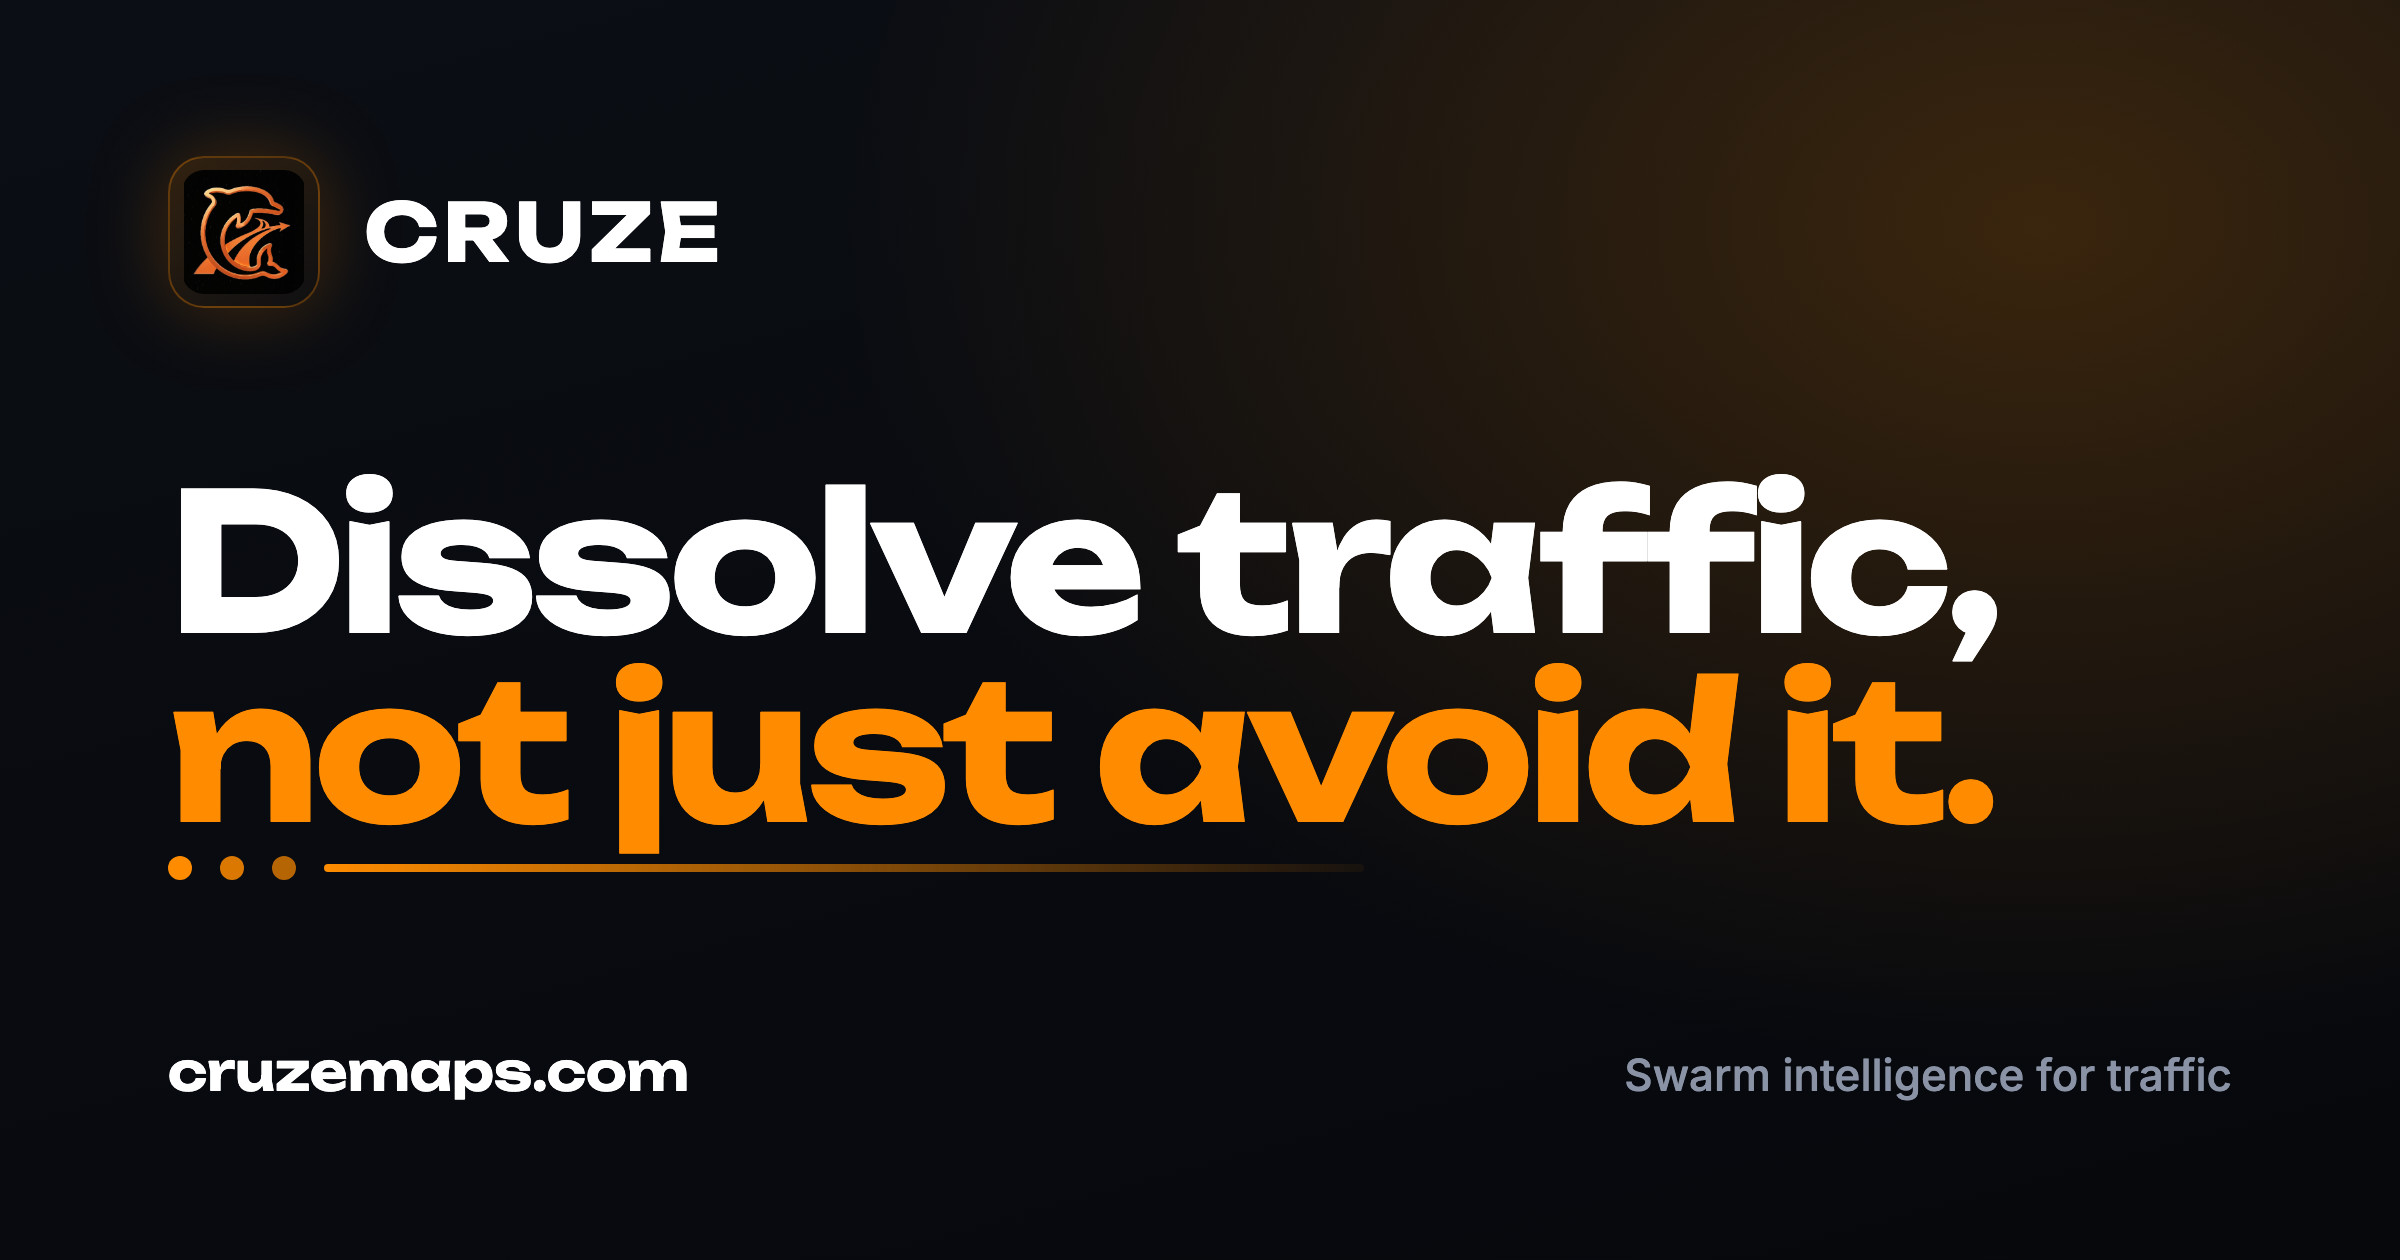
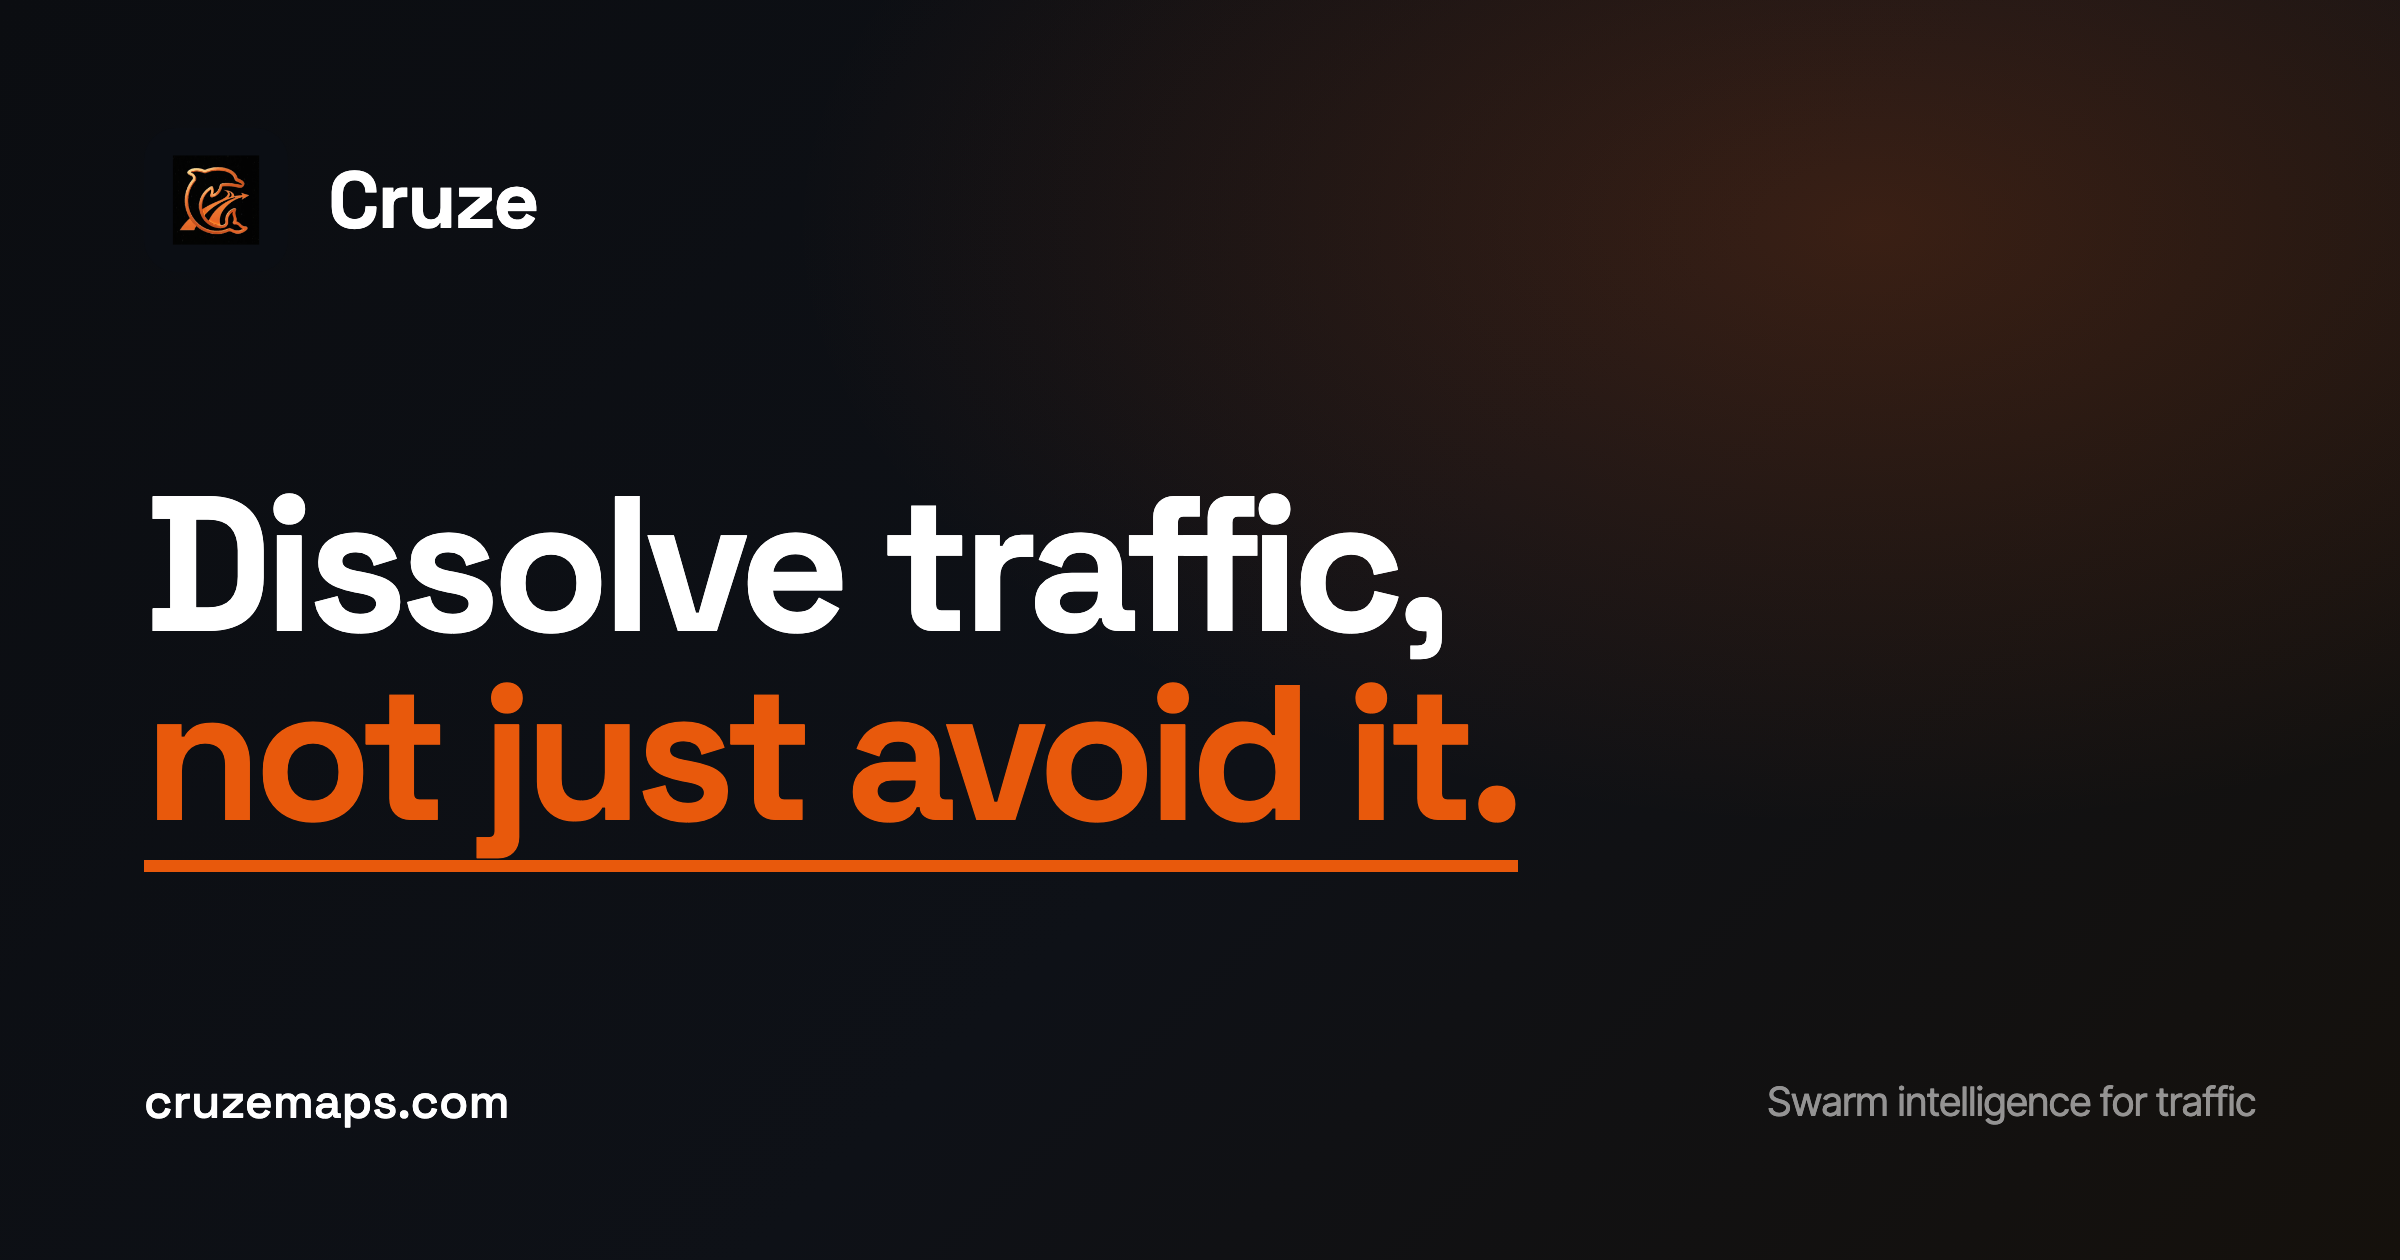
Align brand system to the homepage (V3) across the whole site
The V3 homepage was the only surface on the new design system; everything
else still pointed at the old brand tokens (bright orange #FF8C00 + Unbounded,
which was never actually loaded, so headings fell back to generic sans).

This makes the rest of the site match the homepage:
- Tailwind: display -> Space Grotesk, body -> Inter Tight, brand.orange ->
  #E8590C, brand.charcoal -> #0B0D11
- index.css: orange theme tokens, gradients, and shadows moved to the burnt
  orange; load Inter Tight; body font updated
- Replaced every hardcoded #FF8C00 with #E8590C (v2 sections, seo.ts theme
  color, UIInterns); theme-color meta updated
- Regenerated the press kit (logo wordmark/lockup in Space Grotesk, color
  sheet, guidelines + fact sheet PDFs) and the default OG card on the new
  system

Homepage (V3.tsx) is intentionally untouched. Build and prerender pass.

diff --git a/src/index.css b/src/index.css
@@ -1,4 +1,4 @@
-@import url('https://fonts.googleapis.com/css2?family=Inter:wght@300;400;500;600;700;800;900&family=Space+Grotesk:wght@400;500;600;700&family=Lora:ital,wght@0,400..700;1,400..700&display=swap');
+@import url('https://fonts.googleapis.com/css2?family=Inter:wght@300;400;500;600;700;800;900&family=Inter+Tight:wght@400;500;600;700&family=Space+Grotesk:wght@400;500;600;700&family=Lora:ital,wght@0,400..700;1,400..700&display=swap');
 
 @tailwind base;
 @tailwind components;
@@ -15,8 +15,8 @@
     --popover: 222 47% 8%;
     --popover-foreground: 210 40% 98%;
 
-    --primary: 25 100% 55%;
-    --primary-foreground: 222 47% 6%;
+    --primary: 21 90% 48%;
+    --primary-foreground: 0 0% 100%;
 
     --secondary: 222 47% 12%;
     --secondary-foreground: 210 40% 98%;
@@ -24,7 +24,7 @@
     --muted: 222 30% 15%;
     --muted-foreground: 215 20% 55%;
 
-    --accent: 30 100% 50%;
+    --accent: 21 90% 48%;
     --accent-foreground: 210 40% 98%;
 
     --destructive: 0 84.2% 60.2%;
@@ -32,23 +32,23 @@
 
     --border: 222 30% 18%;
     --input: 222 30% 18%;
-    --ring: 25 100% 55%;
+    --ring: 21 90% 48%;
 
     --radius: 0.75rem;
 
     /* Custom Cruze tokens */
-    --gradient-primary: linear-gradient(135deg, hsl(25 100% 55%) 0%, hsl(35 100% 60%) 50%, hsl(45 100% 55%) 100%);
+    --gradient-primary: linear-gradient(135deg, hsl(21 90% 48%) 0%, hsl(28 90% 52%) 50%, hsl(34 88% 56%) 100%);
     --gradient-dark: linear-gradient(180deg, hsl(222 47% 6%) 0%, hsl(222 47% 3%) 100%);
     --gradient-card: linear-gradient(145deg, hsl(222 47% 10%) 0%, hsl(222 47% 6%) 100%);
-    --gradient-glow: radial-gradient(ellipse at center, hsl(25 100% 55% / 0.15) 0%, transparent 70%);
-    --gradient-flow: linear-gradient(90deg, hsl(25 100% 55%) 0%, hsl(35 100% 60%) 25%, hsl(25 100% 55%) 50%, hsl(35 100% 60%) 75%, hsl(25 100% 55%) 100%);
+    --gradient-glow: radial-gradient(ellipse at center, hsl(21 90% 48% / 0.15) 0%, transparent 70%);
+    --gradient-flow: linear-gradient(90deg, hsl(21 90% 48%) 0%, hsl(30 88% 56%) 25%, hsl(21 90% 48%) 50%, hsl(30 88% 56%) 75%, hsl(21 90% 48%) 100%);
 
-    --shadow-glow: 0 0 60px hsl(25 100% 55% / 0.3);
+    --shadow-glow: 0 0 60px hsl(21 90% 48% / 0.3);
     --shadow-card: 0 25px 50px -12px hsl(0 0% 0% / 0.5);
-    --shadow-button: 0 10px 40px hsl(25 100% 55% / 0.4);
+    --shadow-button: 0 10px 40px hsl(21 90% 48% / 0.4);
 
     --font-display: 'Space Grotesk', sans-serif;
-    --font-body: 'Inter', sans-serif;
+    --font-body: 'Inter Tight', 'Inter', sans-serif;
     --font-serif: 'Lora', serif;
   }
 

diff --git a/src/components/v2/CruzeLab.tsx b/src/components/v2/CruzeLab.tsx
@@ -297,8 +297,8 @@ const CruzeLab = () => {
                   <AreaChart data={metrics}>
                     <defs>
                       <linearGradient id="speedColor" x1="0" y1="0" x2="0" y2="1">
-                        <stop offset="5%" stopColor="#FF8C00" stopOpacity={0.3}/>
-                        <stop offset="95%" stopColor="#FF8C00" stopOpacity={0}/>
+                        <stop offset="5%" stopColor="#E8590C" stopOpacity={0.3}/>
+                        <stop offset="95%" stopColor="#E8590C" stopOpacity={0}/>
                       </linearGradient>
                     </defs>
                     <CartesianGrid strokeDasharray="3 3" stroke="#ffffff10" vertical={false} />
@@ -306,9 +306,9 @@ const CruzeLab = () => {
                     <YAxis domain={[0, 80]} hide />
                     <Tooltip 
                       contentStyle={{ backgroundColor: '#0B0E14', borderColor: '#ffffff20', borderRadius: '8px' }}
-                      itemStyle={{ color: '#FF8C00', fontWeight: 'bold' }}
+                      itemStyle={{ color: '#E8590C', fontWeight: 'bold' }}
                     />
-                    <Area type="monotone" dataKey="speed" stroke="#FF8C00" strokeWidth={2} fillOpacity={1} fill="url(#speedColor)" />
+                    <Area type="monotone" dataKey="speed" stroke="#E8590C" strokeWidth={2} fillOpacity={1} fill="url(#speedColor)" />
                   </AreaChart>
                 </ResponsiveContainer>
               </div>

diff --git a/tailwind.config.ts b/tailwind.config.ts
@@ -14,14 +14,14 @@ export default {
     },
     extend: {
       fontFamily: {
-        display: ['Unbounded', 'sans-serif'],
-        body: ['Inter', 'sans-serif'],
+        display: ['Space Grotesk', 'ui-sans-serif', 'system-ui', 'sans-serif'],
+        body: ['Inter Tight', 'Inter', 'ui-sans-serif', 'system-ui', 'sans-serif'],
         serif: ['Lora', 'serif'],
       },
       colors: {
         brand: {
-          orange: "#FF8C00",
-          charcoal: "#0B0E14",
+          orange: "#E8590C",
+          charcoal: "#0B0D11",
           cyan: "#00F2FF",
         },
         border: "hsl(var(--border))",

diff --git a/src/components/v2/HowItWorksV2.tsx b/src/components/v2/HowItWorksV2.tsx
@@ -81,7 +81,7 @@ const HowItWorksV2 = () => {
                   <div className="hidden md:flex flex-none w-16 justify-center relative z-10">
                     <motion.div 
                       className="w-8 h-8 rounded-full bg-[#0B0E14] border-4 border-white/20 relative"
-                      whileInView={{ borderColor: ['rgba(255,255,255,0.2)', '#00F2FF', '#FF8C00'] }}
+                      whileInView={{ borderColor: ['rgba(255,255,255,0.2)', '#00F2FF', '#E8590C'] }}
                       transition={{ duration: 1.5 }}
                     >
                       <div className="absolute inset-1 rounded-full bg-white/80" />
@@ -102,7 +102,7 @@ const HowItWorksV2 = () => {
                       {idx === 0 && (
                         <div className="relative w-full h-full border border-white/5 rounded-full flex items-center justify-center border-dashed animate-[spin_20s_linear_infinite]">
                           <div className="w-2/3 h-2/3 border border-brand-orange/30 rounded-full flex items-center justify-center border-dashed">
-                             <div className="w-1/3 h-1/3 bg-brand-orange/50 rounded-full shadow-[0_0_30px_#FF8C00]" />
+                             <div className="w-1/3 h-1/3 bg-brand-orange/50 rounded-full shadow-[0_0_30px_#E8590C]" />
                           </div>
                         </div>
                       )}

diff --git a/src/pages/UIInterns.tsx b/src/pages/UIInterns.tsx
@@ -136,7 +136,7 @@ const Speedometer = ({ value = 65 }: { value?: number }) => (
         <div className="relative w-full aspect-square flex items-center justify-center max-w-[160px]">
             <svg className="w-full h-full -rotate-[220deg]" viewBox="0 0 100 100">
                 <circle cx="50" cy="50" r="45" fill="none" stroke="rgba(255,255,255,0.05)" strokeWidth="8" strokeDasharray="260 360" strokeLinecap="round" />
-                <circle cx="50" cy="50" r="45" fill="none" stroke="#FF8C00" strokeWidth="8" strokeDasharray={`${(value / 120) * 260} 360`} strokeLinecap="round" className="transition-all duration-1000 ease-out" />
+                <circle cx="50" cy="50" r="45" fill="none" stroke="#E8590C" strokeWidth="8" strokeDasharray={`${(value / 120) * 260} 360`} strokeLinecap="round" className="transition-all duration-1000 ease-out" />
             </svg>
             <div className="absolute inset-0 flex flex-col items-center justify-center pt-2">
                 <span className="text-4xl font-display font-bold tabular-nums text-white">{value}</span>
@@ -220,7 +220,7 @@ const CityMap = () => (
                 initial={{ pathLength: 0 }} animate={{ pathLength: 1 }} 
                 transition={{ duration: 4, repeat: Infinity, repeatType: "reverse" }}
                 d="M 100 800 L 400 600 L 700 300" 
-                stroke="#FF8C00" strokeWidth="4" fill="none" className="opacity-30" 
+                stroke="#E8590C" strokeWidth="4" fill="none" className="opacity-30" 
             />
             
             {/* Hazards Visualized */}

diff --git a/index.html b/index.html
@@ -9,7 +9,7 @@
     <meta name="description" content="Cruze transforms every smartphone into an active traffic actuator. Our swarm intelligence coordinates driver speeds to dissolve phantom jams—saving fuel, time, and lives." />
     <meta name="author" content="Cruzemaps" />
     <link rel="canonical" href="https://cruzemaps.com" />
-    <meta name="theme-color" content="#0B0E14" />
+    <meta name="theme-color" content="#0B0D11" />
 
     <meta property="og:title" content="Cruze | Dissolve Traffic, Not Just Avoid It" />
     <meta property="og:description" content="Revolutionary navigation that actively dissolves traffic jams using swarm intelligence and physics-informed AI." />

diff --git a/src/components/v2/ImpactMapV2.tsx b/src/components/v2/ImpactMapV2.tsx
@@ -104,7 +104,7 @@ const ImpactMapV2 = () => {
 
                {/* Orbital Nodes */}
                <motion.div 
-                 className="absolute top-0 left-1/2 w-4 h-4 bg-brand-orange rounded-full shadow-[0_0_15px_#FF8C00] -translate-x-1/2 -translate-y-1/2"
+                 className="absolute top-0 left-1/2 w-4 h-4 bg-brand-orange rounded-full shadow-[0_0_15px_#E8590C] -translate-x-1/2 -translate-y-1/2"
                  animate={{ scale: [1, 1.5, 1] }} transition={{ duration: 2, repeat: Infinity }}
                />
                <motion.div 

diff --git a/src/components/v2/InteractiveLabV2.tsx b/src/components/v2/InteractiveLabV2.tsx
@@ -561,7 +561,7 @@ const InteractiveLabV2 = () => {
                                         />
                                     )}
                                     {!roiActive && roiPoints.map((p, i) => (
-                                        <circle key={i} cx={`${p.x}`} cy={`${p.y}`} r="1" fill={i === 0 ? "#FF8C00" : "#00F2FF"} />
+                                        <circle key={i} cx={`${p.x}`} cy={`${p.y}`} r="1" fill={i === 0 ? "#E8590C" : "#00F2FF"} />
                                     ))}
                                 </svg>
 

diff --git a/src/components/v2/YoloOverlay.tsx b/src/components/v2/YoloOverlay.tsx
@@ -29,7 +29,7 @@ const VEHICLE_CLASSES = new Set(["car", "truck", "bus", "motorcycle", "bicycle"]
 // match the brand accent; warmer tones for the rarer classes.
 const CLASS_COLOR: Record<Box["cls"], string> = {
     car: "#00F2FF",
-    truck: "#FF8C00",
+    truck: "#E8590C",
     bus: "#FFB75E",
     motorcycle: "#A78BFA",
     bicycle: "#34D399",

diff --git a/src/lib/seo.ts b/src/lib/seo.ts
@@ -13,7 +13,7 @@ export const SITE = {
   themeColor: "#0B0E14",
   brand: {
     cyan: "#00F2FF",
-    orange: "#FF8C00",
+    orange: "#E8590C",
     charcoal: "#0B0E14",
   },
 } as const;